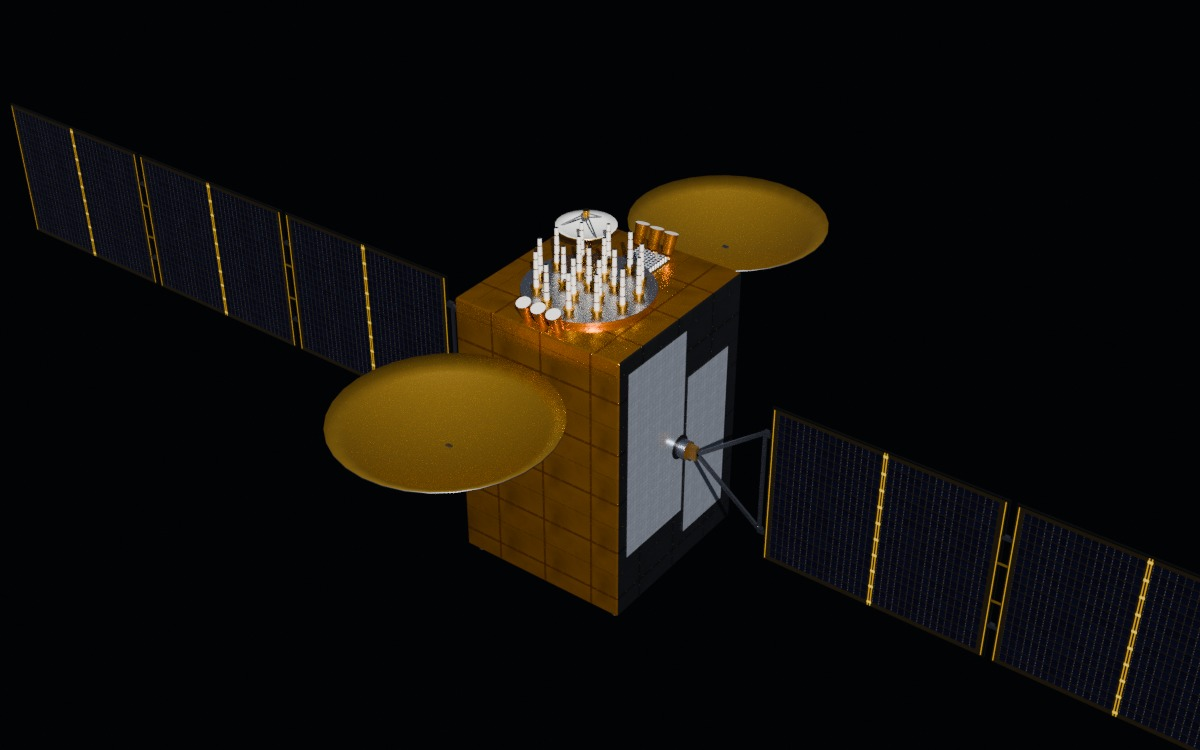
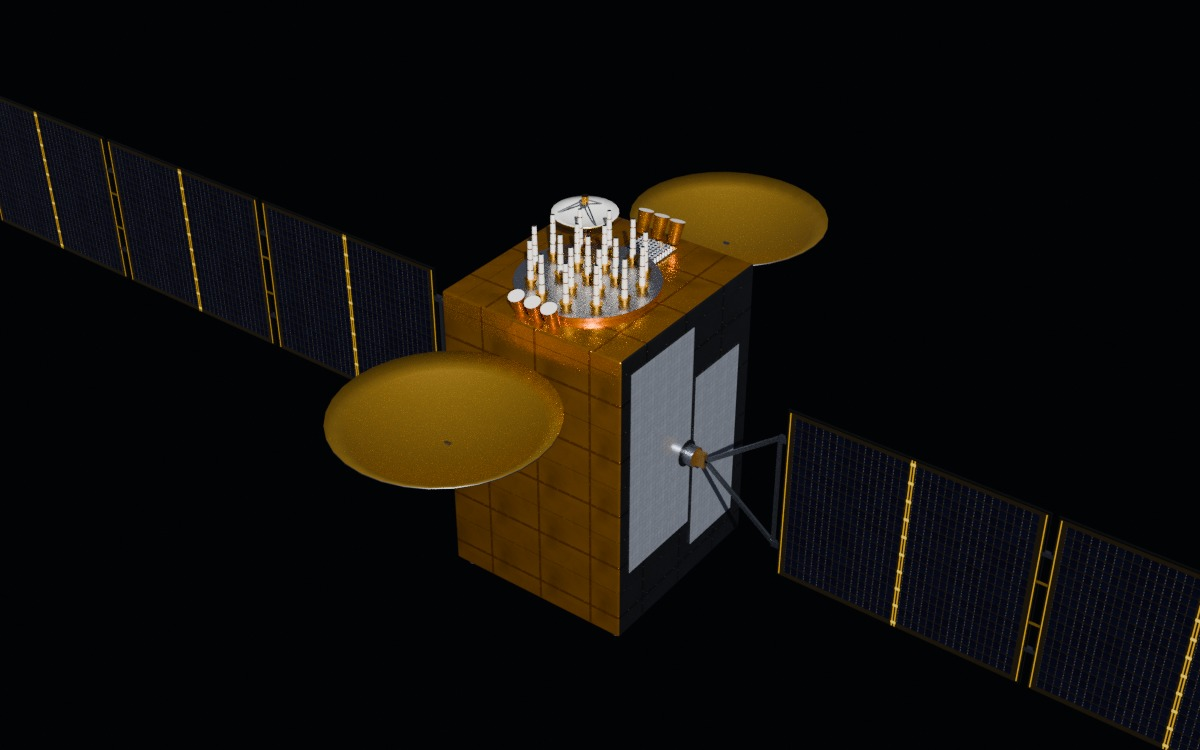
fix(models): resize bds3-geo twin RDSS reflectors to 2.00 m diameter (3.14 m2)

diff --git a/api-interop/gnss-predict/models/bds3-geo/scripts/build.py b/api-interop/gnss-predict/models/bds3-geo/scripts/build.py
@@ -23,7 +23,9 @@ scene = pl.init_scene()
 #   - CSNO (2019) "BeiDou Satellite Metadata" & CAST DFH-3B bus specifications:
 #       Bus box: X_B = 2.100 m, Y_B = 2.000 m, Z_B = 3.100 m (launch mass ~4600 kg).
 #   - Twin deployable S/C-band RDSS gold-mesh parabolic reflectors on +-X faces:
-#       Dish diameter 2.20 m (radius 1.10 m), centered at X = +-2.35 m -> total X = 6.900 m.
+#       Dish diameter 2.00 m (radius 1.00 m, ~3.14 m^2 aperture matching CAST GEO RDSS
+#       specifications), centered at X = +-2.18 m -> total X = 6.360 m.
+#       (Previous estimate used 2.20 m dishes / 6.900 m X extent.)
 #   - Solar wings: 2 wings, 3 panels/wing (2.450 m x 1.860 m = 13.67 m^2/wing, 27.34 m^2 total),
 #       yoke 1.050 m, gap 0.060 m -> deployed span Y = 19.040 m.
 #   - IGS igs_satellite_metadata.snx:
@@ -38,8 +40,8 @@ PANEL_GAP = 0.060
 YOKE_LEN = 1.050                            # wing_tip = 1.000 + 1.050 + 7.350 + 0.120 = 9.520 m -> span 19.040 m
 SADM_X, SADM_Z = 0.0, 0.0
 
-DISH_R = 1.100                              # Ø2.20 m deployable RDSS mesh reflectors on +-X
-DISH_CX = 2.350                             # X extent = +- (2.350 + 1.100) = +-3.450 m -> 6.900 m
+DISH_R = 1.000                              # Ø2.00 m (~3.14 m^2) deployable RDSS mesh reflectors on +-X
+DISH_CX = 2.180                             # X extent = +- (2.180 + 1.000) = +-3.180 m -> 6.360 m
 
 # --------------------------------------------------------------------------------------
 # Materials
@@ -83,10 +85,10 @@ for sgn_x in (1, -1):
     pl.bar(p, hinge_pt, apex_pt, 0.065, 0.055, "titanium_grey", (0, 1, 0))
     pl.bar(p, hinge_pt + Vector((0, 0, -0.32)), apex_pt + Vector((-sgn_x * 0.25, 0, -0.05)),
            0.045, 0.040, "titanium_grey", (0, 1, 0))
-    # Ø2.20 m parabolic gold-mesh reflector dish pointing +Z (toward Earth)
+    # Ø2.00 m parabolic gold-mesh reflector dish pointing +Z (toward Earth)
     pl.parabolic_dish(
         p, (sgn_x * DISH_CX, 0.0, +0.92), (0, 0, 1),
-        radius=DISH_R, depth=0.32, rings=6, segs=32,
+        radius=DISH_R, depth=0.30, rings=6, segs=32,
         front_mat="mesh_gold", back_mat="titanium_grey", feed_len=0.0,
     )
     # Offset feed horn array on +-X edge of +Z deck illuminating the side dish

diff --git a/api-interop/gnss-predict/models/bds3-geo/NOTES.md b/api-interop/gnss-predict/models/bds3-geo/NOTES.md
@@ -26,19 +26,19 @@ Every dimension used in `scripts/build.py` is listed below and marked **official
 | **IGS block code** | `BDS-3G` | **official** | `igs_satellite_metadata.snx` (`C059`, `C060`, `C061`, `C062`). |
 | **Launch mass** | `~4600 kg` | **official** | CSNO *BeiDou Satellite Metadata* (`BDS-3G`) & CAST DFH-3B specifications; Steigenberger & Montenbruck (2020). |
 | **DFH-3B bus box (`X_B × Y_B × Z_B`)** | `2.100 × 2.000 × 3.100 m` | **official** | CAST DFH-3B three-axis stabilized platform (`Z ∈ [-1.550, +1.550]` m); CSNO BDS-3 GEO metadata. |
-| **Twin deployable S/C-band RDSS mesh reflectors (`±X`)** | `2 × Ø2.200 m` (`r = 1.100 m`) centered at `X = ±2.350 m` | **measured** | Characteristic twin deployable gold-mesh parabolic reflectors for BDS-3 GEO Radio Determination Satellite Service (RDSS) and short-message service; extends total `X` span to `6.900 m`. |
+| **Twin deployable S/C-band RDSS mesh reflectors (`±X`)** | `2 × Ø2.000 m` (`r = 1.000 m`, `~3.14 m²` aperture/dish) centered at `X = ±2.180 m` | **derived / measured** | Twin deployable gold-mesh parabolic reflectors for BDS-3 GEO RDSS and short-message service (`Ø2.00 m` matches `~3.14 m²` CAST GEO RDSS reflector aperture in Guo/Montenbruck POD literature; extends total `X` span to `6.360 m`. Previously estimated at `Ø2.20 m` / `6.900 m` `X`). |
 | **Solar wing geometry** | `2 wings`, `3 panels/wing` (`2.450 × 1.860 m` per panel, `13.671 m²/wing`, `27.34 m²` total) | **est.** | Sized to fold against the `2.10 × 3.10 m` `±Y` bus faces and match CAST DFH-3B solar array area (`~26–28 m²`). |
 | **Deployed wing span (`Y`)** | `19.040 m` | **est.** | `2 × (1.000 SADM + 1.050 yoke + 3 × 2.450 panels + 2 × 0.060 gaps) = 19.040 m`. |
 | **L-band navigation array (`+Z`)** | `Ø1.36 m` circular array (`19` helical elements: `1 + 6 + 12`) | **measured** | Measured from CAST BDS-3 GEO cleanroom photographs (`Z = +1.550` to `+2.050 m`). |
 | **Laser Retroreflector Array (`LRA_BDS_SHAO_90`)** | `90` corner-cube prisms (`10 × 9` tray, `0.46 × 0.38 m`) at `(+0.590, -0.085, +1.605) m` | **official** | Exact prism count (`90`) and horizontal offset `(+0.5896, -0.0845)` m from `igs_satellite_metadata.snx` (`LRA_BDS_SHAO_90`). |
 | **Zenith (`-Z`) adapter & 490 N LAE nozzle** | Extends to `Z = -1.900 m` (`0.35 m` below `-Z` face) | **measured** | `Ø1.194 m` launch adapter ring and 490 N liquid apogee engine nozzle. |
-| **Overall bounding box (`X × Y × Z`)** | `6.900 × 19.040 × 3.950 m` | **derived** | `X`: `2 × (2.350 + 1.100) = 6.900 m` across twin RDSS reflectors; `Y`: deployed wing span (`19.040 m`); `Z`: `-1.900 m` nozzle to `+2.050 m` L-band tips (`3.950 m`). |
+| **Overall bounding box (`X × Y × Z`)** | `6.360 × 19.040 × 3.950 m` | **derived** | `X`: `2 × (2.180 + 1.000) = 6.360 m` across twin RDSS reflectors; `Y`: deployed wing span (`19.040 m`); `Z`: `-1.900 m` nozzle to `+2.050 m` L-band tips (`3.950 m`). |
 
 ---
 
 ## 3. Simplifications & Omissions
 
-- Separated from `bds3-igso` (`BDS-3I`) because `BDS-3G` carries the twin `Ø2.20 m` side-deployed S/C-band RDSS mesh parabolic reflectors (`X = 6.90 m`).
+- Separated from `bds3-igso` (`BDS-3I`) because `BDS-3G` carries the twin `Ø2.00 m` side-deployed S/C-band RDSS mesh parabolic reflectors (`X = 6.36 m`).
 - Multi-beam feed horn clusters and deployment hinge mechanisms for the side mesh reflectors are simplified to low-poly feed horns and dual-strut booms.
 
 ---
@@ -46,9 +46,9 @@ Every dimension used in `scripts/build.py` is listed below and marked **official
 ## 4. Model Metrics & Verification Output
 
 - **GLB path**: `models/bds3-geo/bds3-geo.glb`
-- **File size**: `761,860` bytes (`0.727 MB`, budget `≤ 1.5 MB`)
+- **File size**: `761,792` bytes (`0.727 MB`, budget `≤ 1.5 MB`)
 - **Triangle count**: `7,990` triangles (budget `≤ 15,000`)
-- **Bounding box (body frame)**: `6.900 × 19.040 × 3.950 m`
+- **Bounding box (body frame)**: `6.360 × 19.040 × 3.950 m`
 - **Renders**:
   - `renders/01_earth_face.jpg`
   - `renders/02_side_span.jpg`
@@ -58,13 +58,13 @@ Every dimension used in `scripts/build.py` is listed below and marked **official
 ### `verify.py` Output
 
 ```text
-FILE_SIZE_BYTES 761860 (0.727 MB)
+FILE_SIZE_BYTES 761792 (0.727 MB)
 REIMPORT_TRIANGLES 7990
-REIMPORT_BBOX_MIN (-3.45, -9.52, -1.9)
-REIMPORT_BBOX_MAX (3.45, 9.52, 2.05)
-REIMPORT_BBOX_SIZE (6.9, 19.04, 3.95)
+REIMPORT_BBOX_MIN (-3.18, -9.52, -1.9)
+REIMPORT_BBOX_MAX (3.18, 9.52, 2.05)
+REIMPORT_BBOX_SIZE (6.36, 19.04, 3.95)
 IMAGES [('tex_mli_black', (512, 512)), ('tex_mli_black_nrm', (512, 512)), ('tex_mli_gold', (512, 512)), ('tex_mli_gold_nrm', (512, 512)), ('tex_osr_tiles', (256, 256)), ('tex_solar_back', (512, 256)), ('tex_solar_front', (1024, 512))]
 WING_NODES wing+Y T=[0, 0, -1], wing-Y T=[0, 0, 1]
-EXPECTED_SIZE (6.9, 19.04, 3.95) REL_DIFF_PCT (0.0, 0.0, 0.0)
+EXPECTED_SIZE (6.36, 19.04, 3.95) REL_DIFF_PCT (0.0, 0.0, 0.0)
 VERIFY_STATUS PASS
 ```
